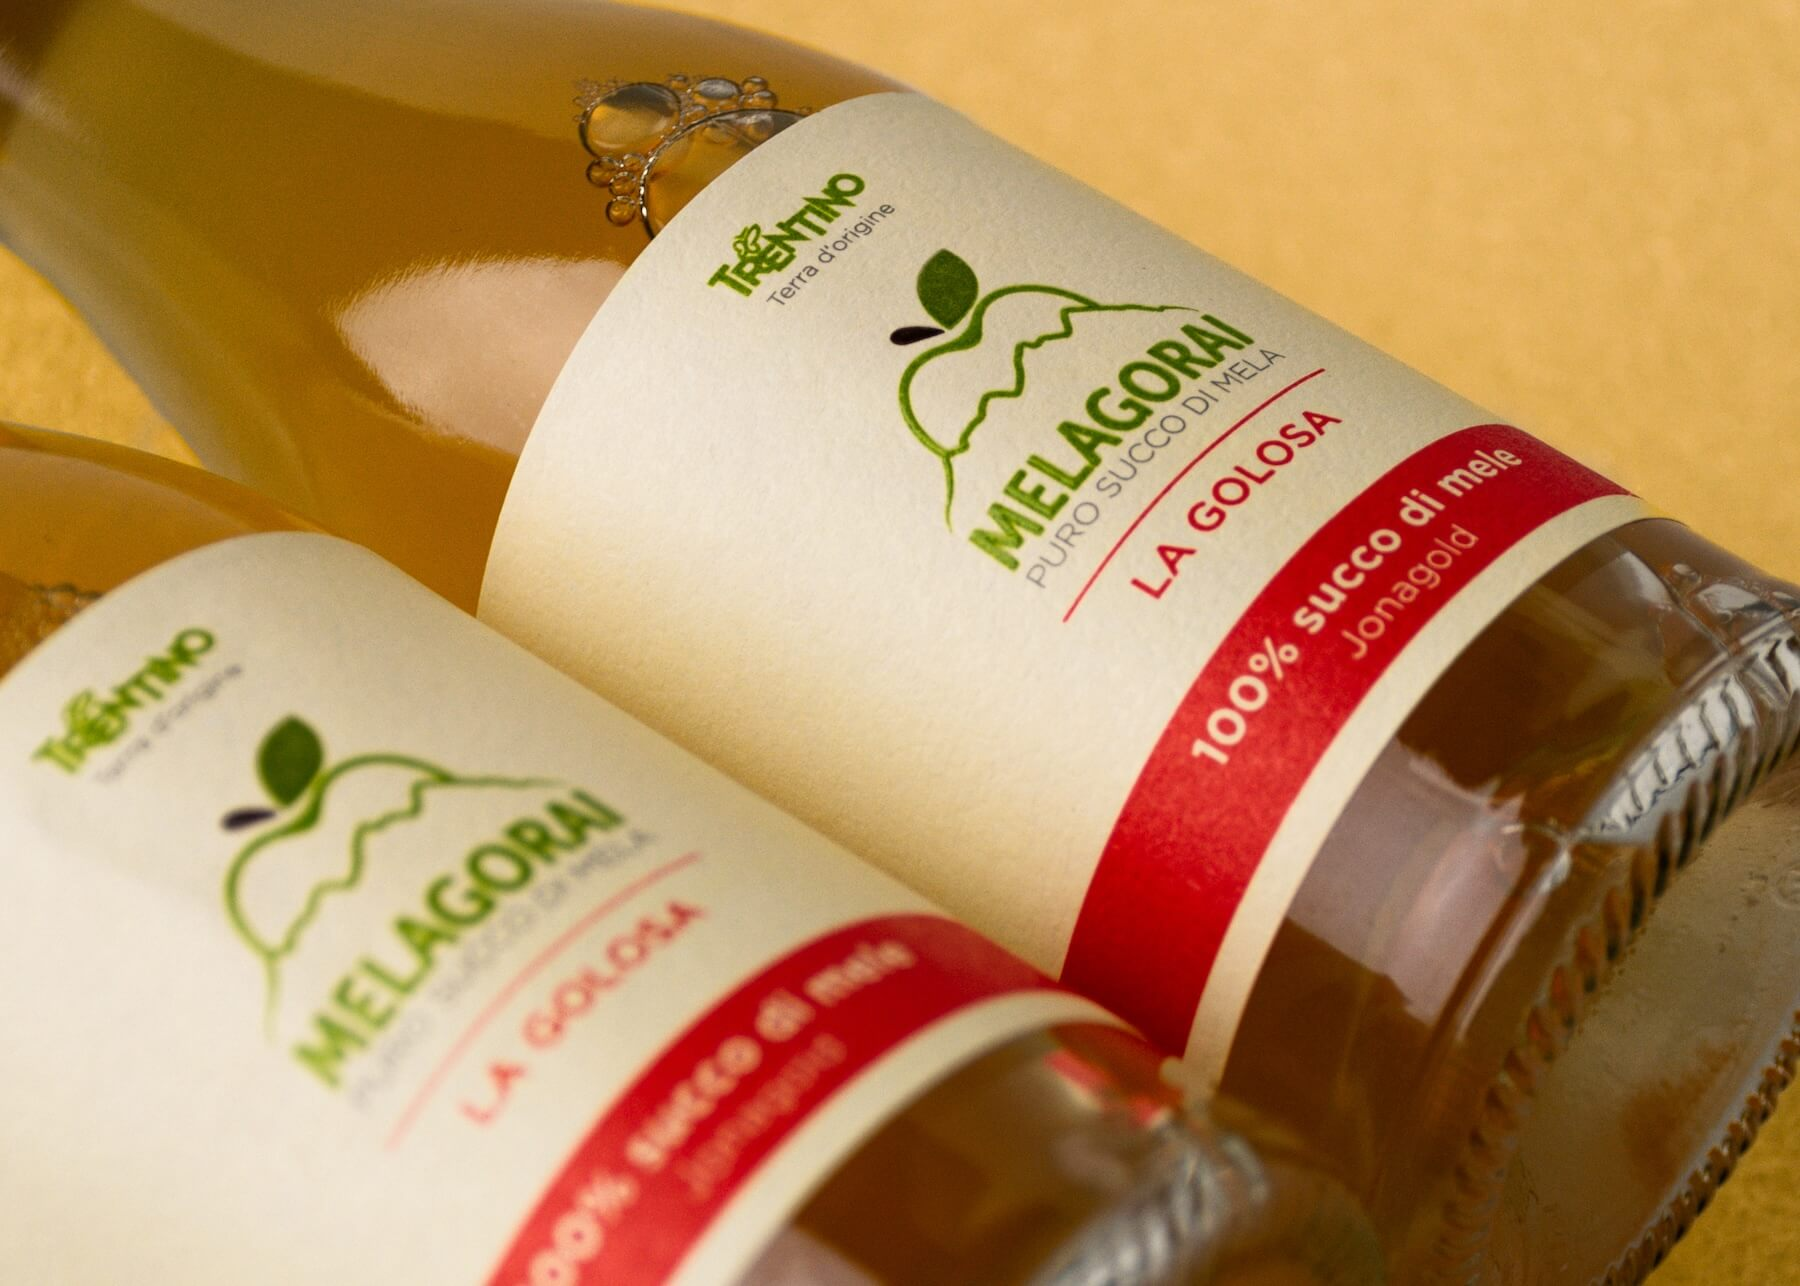
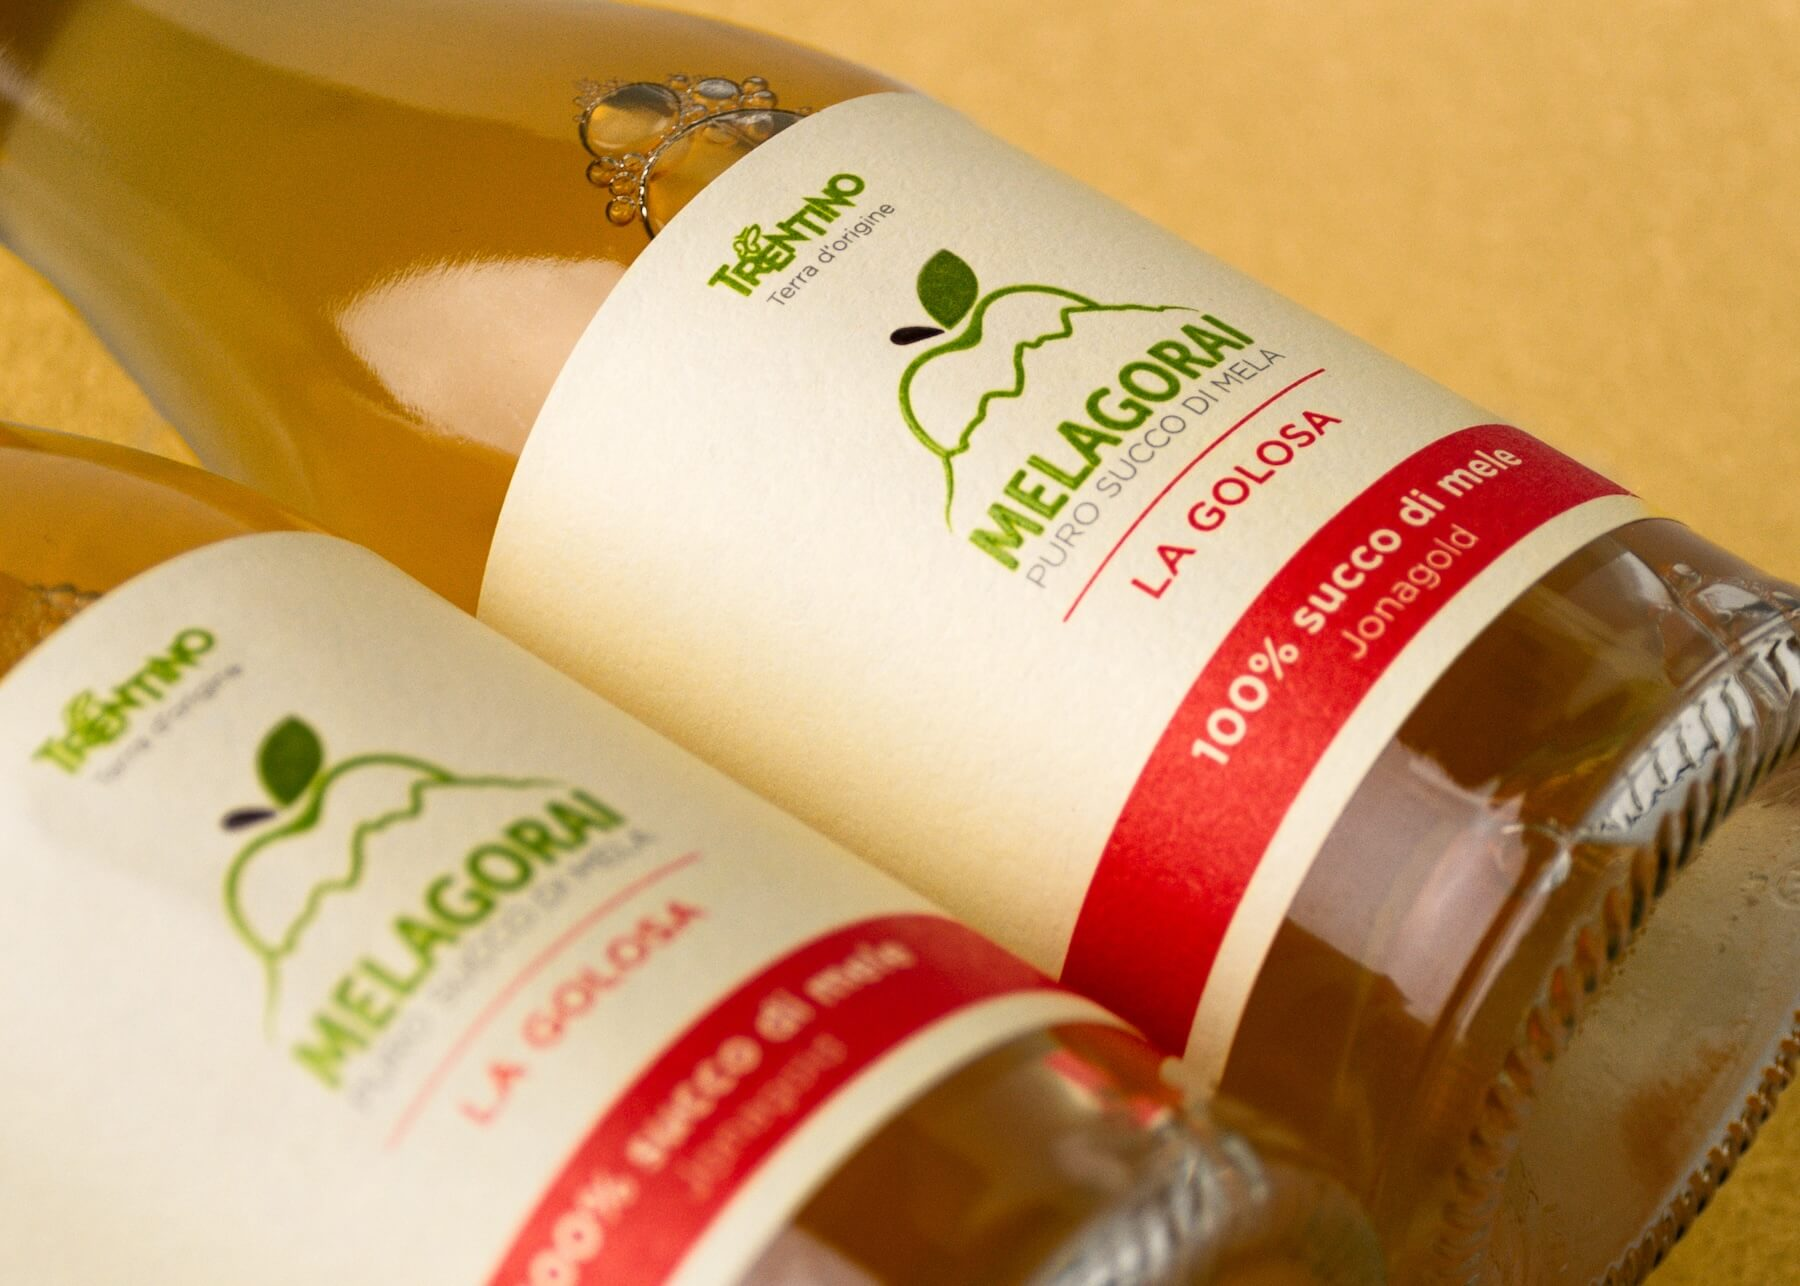
videos updated, adjusted, portfolio image aspect ratio edited

diff --git a/_site/portfolio-photography.html b/_site/portfolio-photography.html
@@ -197,9 +197,9 @@
               </div>
             </a> 
             
-            <a class="col-4_sm-6 product gallery-item" href="/images/WEB-TJCOPYRIGHT-NKN_6322-Enhanced-NR.jpg">
+            <a class="col-4_sm-6 product gallery-item" href="/images/WEB-TJCOPYRIGHT-NKN_6322-Enhanced-NR-2.jpg">
               <div class="img-holder portrait">
-                <img src="/images/WEB-TJCOPYRIGHT-NKN_6322-Enhanced-NR.jpg" alt="Apple Juice bottle product photography.">
+                <img src="/images/WEB-TJCOPYRIGHT-NKN_6322-Enhanced-NR-2.jpg" alt="Apple Juice bottle product photography.">
               </div>
             </a> 
             
@@ -318,9 +318,9 @@
                   </div>
                 </a> 
                 
-                <a class="col-4_sm-6 product gallery-item" href="/images/WEB-TJCOPYRIGHT-NKN_6322-Enhanced-NR.jpg">
+                <a class="col-4_sm-6 product gallery-item" href="/images/WEB-TJCOPYRIGHT-NKN_6322-Enhanced-NR-2.jpg">
                   <div class="bg-image portrait" 
-                    style="background-image: url('/images/WEB-TJCOPYRIGHT-NKN_6322-Enhanced-NR.jpg');">
+                    style="background-image: url('/images/WEB-TJCOPYRIGHT-NKN_6322-Enhanced-NR-2.jpg');">
                   </div>
                 </a> 
                 
@@ -457,7 +457,7 @@
             
             <div class="col-4_sm-6 gallery-item">
                 <div class="bg-image portrait" 
-                style="background-image: url('/images/WEB-TJCOPYRIGHT-NKN_6322-Enhanced-NR.jpg');">
+                style="background-image: url('/images/WEB-TJCOPYRIGHT-NKN_6322-Enhanced-NR-2.jpg');">
             </div>
             </div> 
             

diff --git a/portfolio-photography.html b/portfolio-photography.html
@@ -41,7 +41,7 @@ gallery:
  - category: "product"
    column-size: col-4_sm-6
    aspect-ratio: portrait
-   background-image: /images/WEB-TJCOPYRIGHT-NKN_6322-Enhanced-NR.jpg
+   background-image: /images/WEB-TJCOPYRIGHT-NKN_6322-Enhanced-NR-2.jpg
    image_alt: Apple Juice bottle product photography.
  - category: "restaurant"
    column-size: col-4_sm-6
